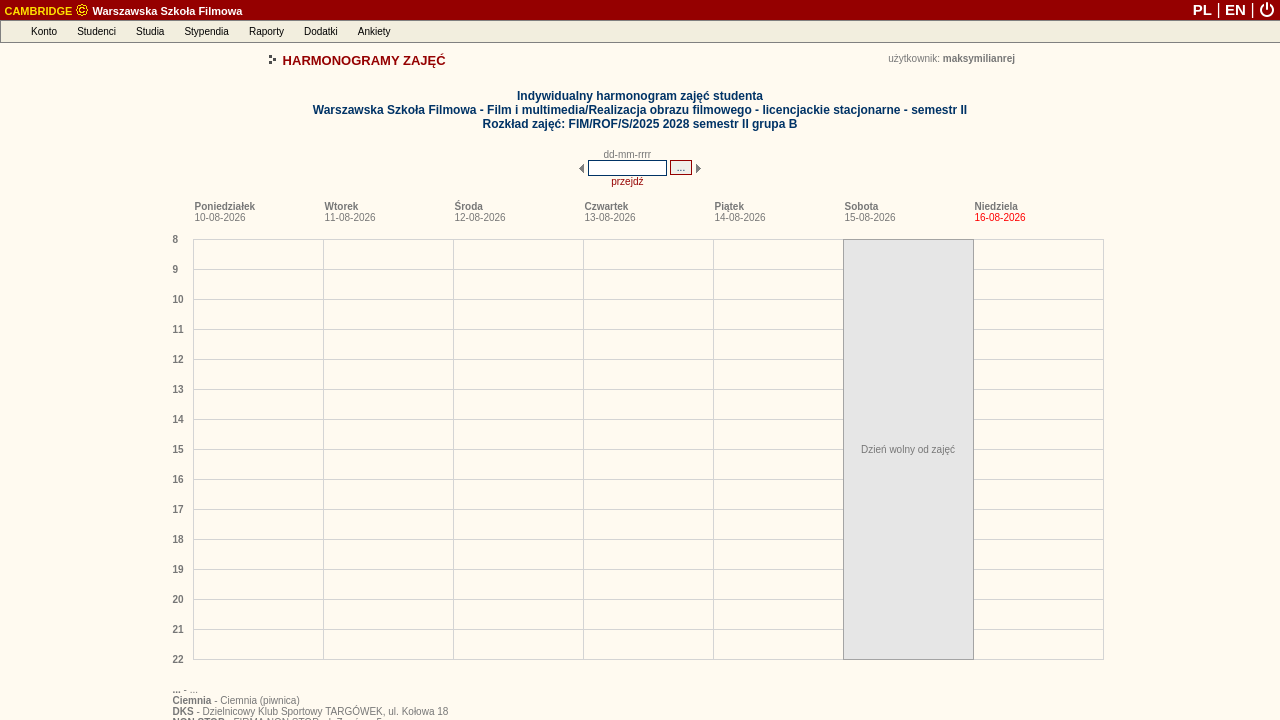
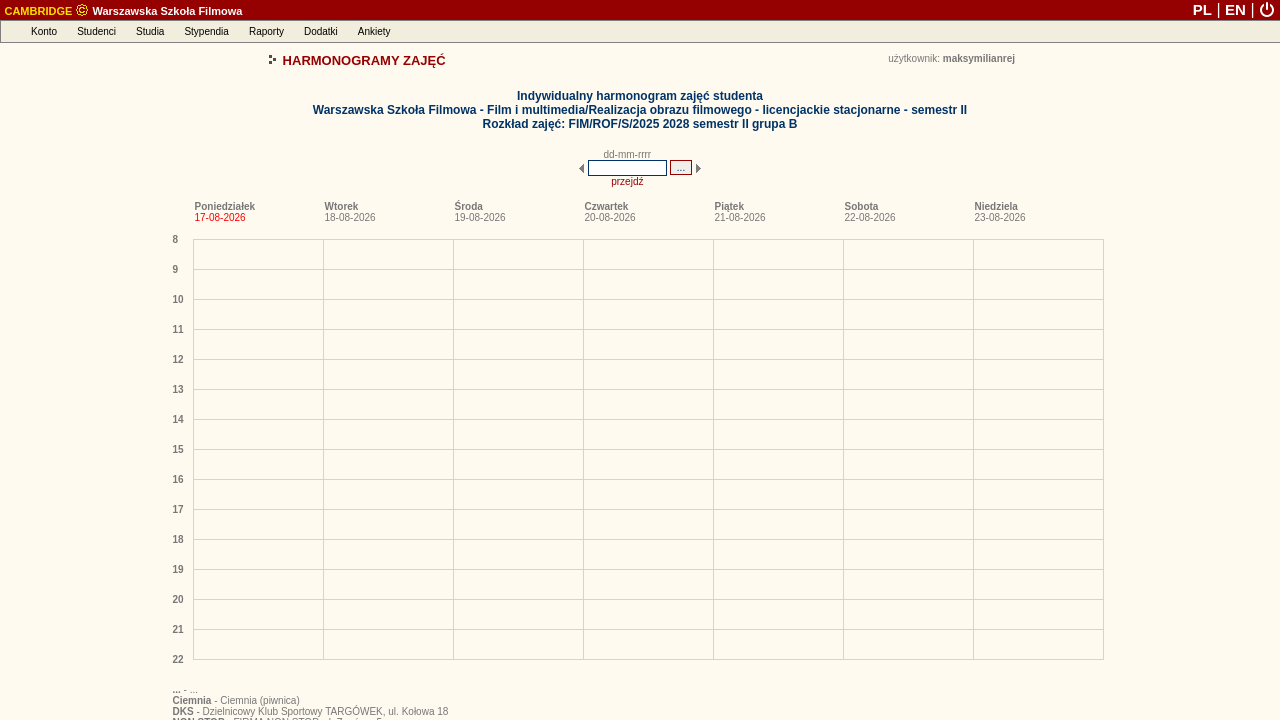
deploy: 20767e2667a06bb4135101eddfaa63d366c8849d

Changed region(s): [[0.6562, 0.3056, 0.7812, 0.9167], [0.75, 0.275, 0.7812, 0.3056], [0.1562, 0.275, 0.1875, 0.3056]]

diff --git a/debug_harmonogram_page.html b/debug_harmonogram_page.html
@@ -163,8 +163,8 @@
 
 
 
-<link rel="stylesheet" type="text/css" href="/palio/html.run?_Instance=cambridge&amp;_PageID=4&amp;_SessionID=1731042&amp;_SessionKey=1692500415&amp;ZoomView=&amp;DisplayMode=&amp;_CheckSum=-963517913">
-<script language="javascript" type="text/javascript" src="/palio/html.run?_Instance=cambridge&amp;_PageID=5&amp;_SessionID=1731042&amp;_SessionKey=1692500415&amp;_CheckSum=992540417"></script>
+<link rel="stylesheet" type="text/css" href="/palio/html.run?_Instance=cambridge&amp;_PageID=4&amp;_SessionID=1731127&amp;_SessionKey=996439924&amp;ZoomView=&amp;DisplayMode=&amp;_CheckSum=-1227430187">
+<script language="javascript" type="text/javascript" src="/palio/html.run?_Instance=cambridge&amp;_PageID=5&amp;_SessionID=1731127&amp;_SessionKey=996439924&amp;_CheckSum=1654931957"></script>
 
 
 
@@ -354,9 +354,9 @@ CambridgeMenuBar = new jsDOMenuBar("absolute", true)
 
 AccountMenu=new jsDOMenu(200, "", "absolute", false);
 
-AccountMenu.addMenuItem(new menuItem("Zmiana hasła", "", "/palio/html.run?_Instance=cambridge&amp;_PageID=11&amp;_SessionID=1731042&amp;_SessionKey=1692500415&amp;_CheckSum=-1273393038"));
+AccountMenu.addMenuItem(new menuItem("Zmiana hasła", "", "/palio/html.run?_Instance=cambridge&amp;_PageID=11&amp;_SessionID=1731127&amp;_SessionKey=996439924&amp;_CheckSum=57816676"));
 
-  AccountMenu.addMenuItem(new menuItem("Komunikator", "", "/palio/html.run?_Instance=cambridge&amp;_PageID=180&amp;_SessionID=1731042&amp;_SessionKey=1692500415&amp;_CheckSum=-2078352819"));
+  AccountMenu.addMenuItem(new menuItem("Komunikator", "", "/palio/html.run?_Instance=cambridge&amp;_PageID=180&amp;_SessionID=1731127&amp;_SessionKey=996439924&amp;_CheckSum=1694418217"));
 
 
 
@@ -369,7 +369,7 @@ AccountMenu.addMenuItem(new menuItem("Yammer", "", "https://www.yammer.com/onlin
 
 AccountMenu.addMenuItem(new menuItem("-"));
 
-AccountMenu.addMenuItem(new menuItem("Wylogowanie", "", "https://student.szkolafilmowa.pl/palio/html.run?_Instance=cambridge&amp;_PageID=10012&amp;_Action=Logout&amp;_SessionID=1731042&amp;_SessionKey=1692500415"));
+AccountMenu.addMenuItem(new menuItem("Wylogowanie", "", "https://student.szkolafilmowa.pl/palio/html.run?_Instance=cambridge&amp;_PageID=10012&amp;_Action=Logout&amp;_SessionID=1731127&amp;_SessionKey=996439924"));
 
 CambridgeMenuBar.addMenuBarItem(new menuBarItem("Konto", AccountMenu));
 
@@ -382,12 +382,12 @@ StudentsMenu=new jsDOMenu(320, "", "absolute", false);
 
 
 
-StudentsMenu.addMenuItem(new menuItem("Moje dane", "", "/palio/html.run?_Instance=cambridge&amp;_PageID=185&amp;_SessionID=1731042&amp;_SessionKey=1692500415&amp;_CheckSum=1153453544"));
+StudentsMenu.addMenuItem(new menuItem("Moje dane", "", "/palio/html.run?_Instance=cambridge&amp;_PageID=185&amp;_SessionID=1731127&amp;_SessionKey=996439924&amp;_CheckSum=551744046"));
 
 
 
 
-StudentsMenu.addMenuItem(new menuItem("Moje indeksy", "", "/palio/html.run?_Instance=cambridge&amp;_PageID=186&amp;_SessionID=1731042&amp;_SessionKey=1692500415&amp;_CheckSum=-777165561"));
+StudentsMenu.addMenuItem(new menuItem("Moje indeksy", "", "/palio/html.run?_Instance=cambridge&amp;_PageID=186&amp;_SessionID=1731127&amp;_SessionKey=996439924&amp;_CheckSum=1182202671"));
 
 
 
@@ -426,7 +426,7 @@ StudiesMenu=new jsDOMenu(250, "", "absolute", false);
 
 
 
-StudiesMenu.addMenuItem(new menuItem("Moje plany studiów", "", "/palio/html.run?_Instance=cambridge&amp;_PageID=258&amp;_SessionID=1731042&amp;_SessionKey=1692500415&amp;_CheckSum=-1083574175"));
+StudiesMenu.addMenuItem(new menuItem("Moje plany studiów", "", "/palio/html.run?_Instance=cambridge&amp;_PageID=258&amp;_SessionID=1731127&amp;_SessionKey=996439924&amp;_CheckSum=-74607467"));
 
 
 
@@ -434,13 +434,13 @@ StudiesMenu.addMenuItem(new menuItem("Moje plany studiów", "", "/palio/html.run
 
 
 
-StudiesMenu.addMenuItem(new menuItem("Harmonogramy zajęć", "", "/palio/html.run?_Instance=cambridge&amp;_PageID=95&amp;_SessionID=1731042&amp;_SessionKey=1692500415&amp;_CheckSum=1836864246"));
+StudiesMenu.addMenuItem(new menuItem("Harmonogramy zajęć", "", "/palio/html.run?_Instance=cambridge&amp;_PageID=95&amp;_SessionID=1731127&amp;_SessionKey=996439924&amp;_CheckSum=19600224"));
 
-StudiesMenu.addMenuItem(new menuItem("Harmonogramy moich zajęć", "", "/palio/html.run?_Instance=cambridge&amp;_PageID=191&amp;_SessionID=1731042&amp;_SessionKey=1692500415&amp;_CheckSum=566345261"));
+StudiesMenu.addMenuItem(new menuItem("Harmonogramy moich zajęć", "", "/palio/html.run?_Instance=cambridge&amp;_PageID=191&amp;_SessionID=1731127&amp;_SessionKey=996439924&amp;_CheckSum=394257737"));
 
-StudiesMenu.addMenuItem(new menuItem("Harmonogramy innych zajęć", "", "/palio/html.run?_Instance=cambridge&amp;_PageID=248&amp;_SessionID=1731042&amp;_SessionKey=1692500415&amp;_CheckSum=-1363924064"));
+StudiesMenu.addMenuItem(new menuItem("Harmonogramy innych zajęć", "", "/palio/html.run?_Instance=cambridge&amp;_PageID=248&amp;_SessionID=1731127&amp;_SessionKey=996439924&amp;_CheckSum=1856011638"));
 
-StudiesMenu.addMenuItem(new menuItem("Harmonogramy zajętości sal", "", "/palio/html.run?_Instance=cambridge&amp;_PageID=269&amp;_SessionID=1731042&amp;_SessionKey=1692500415&amp;_CheckSum=1561123905"));
+StudiesMenu.addMenuItem(new menuItem("Harmonogramy zajętości sal", "", "/palio/html.run?_Instance=cambridge&amp;_PageID=269&amp;_SessionID=1731127&amp;_SessionKey=996439924&amp;_CheckSum=-1374767947"));
 
 
 
@@ -470,9 +470,9 @@ CambridgeMenuBar.addMenuBarItem(new menuBarItem("Studia", StudiesMenu));
 ScholarshipsMenu=new jsDOMenu(230, "", "absolute", false);
 
 
-ScholarshipsMenu.addMenuItem(new menuItem("Moje stypendia", "", "/palio/html.run?_Instance=cambridge&amp;_PageID=187&amp;_SessionID=1731042&amp;_SessionKey=1692500415&amp;_CheckSum=1587182630"));
+ScholarshipsMenu.addMenuItem(new menuItem("Moje stypendia", "", "/palio/html.run?_Instance=cambridge&amp;_PageID=187&amp;_SessionID=1731127&amp;_SessionKey=996439924&amp;_CheckSum=1812661296"));
 
-ScholarshipsMenu.addMenuItem(new menuItem("Mój numer rachunku", "", "/palio/html.run?_Instance=cambridge&amp;_PageID=380&amp;_SessionID=1731042&amp;_SessionKey=1692500415&amp;_CheckSum=-1876528885"));
+ScholarshipsMenu.addMenuItem(new menuItem("Mój numer rachunku", "", "/palio/html.run?_Instance=cambridge&amp;_PageID=380&amp;_SessionID=1731127&amp;_SessionKey=996439924&amp;_CheckSum=-2039849301"));
 
 
 
@@ -482,9 +482,9 @@ ScholarshipsMenu.addMenuItem(new menuItem("Mój numer rachunku", "", "/palio/htm
 ScholarshipsMenu.addMenuItem(new menuItem("-"));
 
 
-ScholarshipsMenu.addMenuItem(new menuItem("Fundusze stypendialne", "", "/palio/html.run?_Instance=cambridge&amp;_PageID=54&amp;_SessionID=1731042&amp;_SessionKey=1692500415&amp;_CheckSum=-1648883501"));
+ScholarshipsMenu.addMenuItem(new menuItem("Fundusze stypendialne", "", "/palio/html.run?_Instance=cambridge&amp;_PageID=54&amp;_SessionID=1731127&amp;_SessionKey=996439924&amp;_CheckSum=-1478316573"));
 
-ScholarshipsMenu.addMenuItem(new menuItem("Rodzaje stypendiów", "", "/palio/html.run?_Instance=cambridge&amp;_PageID=55&amp;_SessionID=1731042&amp;_SessionKey=1692500415&amp;_CheckSum=715464690"));
+ScholarshipsMenu.addMenuItem(new menuItem("Rodzaje stypendiów", "", "/palio/html.run?_Instance=cambridge&amp;_PageID=55&amp;_SessionID=1731127&amp;_SessionKey=996439924&amp;_CheckSum=-847857948"));
 
 
 
@@ -495,7 +495,7 @@ CambridgeMenuBar.addMenuBarItem(new menuBarItem("Stypendia", ScholarshipsMenu));
 ReportsMenu=new jsDOMenu(200, "", "absolute", false);
 
 
-ReportsMenu.addMenuItem(new menuItem("Generowanie raportów", "", "/palio/html.run?_Instance=cambridge&amp;_PageID=68&amp;_SessionID=1731042&amp;_SessionKey=1692500415&amp;_CheckSum=-501075440"));
+ReportsMenu.addMenuItem(new menuItem("Generowanie raportów", "", "/palio/html.run?_Instance=cambridge&amp;_PageID=68&amp;_SessionID=1731127&amp;_SessionKey=996439924&amp;_CheckSum=-887101178"));
 
 
 
@@ -505,7 +505,7 @@ CambridgeMenuBar.addMenuBarItem(new menuBarItem("Raporty", ReportsMenu));
 
 AdditionalsMenu=new jsDOMenu(200, "", "absolute", false);
 
-AdditionalsMenu.addMenuItem(new menuItem("Forum internetowe", "", "/palio/html.run?_Instance=cambridge&amp;_PageID=8001&amp;_SessionID=1731042&amp;_SessionKey=1692500415&amp;_CheckSum=-1244638663"));
+AdditionalsMenu.addMenuItem(new menuItem("Forum internetowe", "", "/palio/html.run?_Instance=cambridge&amp;_PageID=8001&amp;_SessionID=1731127&amp;_SessionKey=996439924&amp;_CheckSum=612933565"));
 
 
 
@@ -539,7 +539,7 @@ PollsMenu=new jsDOMenu(225, "", "absolute", false);
 
 
 
-PollsMenu.addMenuItem(new menuItem("Wypełnianie ankiet", "", "/palio/html.run?_Instance=cambridge&amp;_PageID=227&amp;_SessionID=1731042&amp;_SessionKey=1692500415&amp;_CheckSum=5995263"));
+PollsMenu.addMenuItem(new menuItem("Wypełnianie ankiet", "", "/palio/html.run?_Instance=cambridge&amp;_PageID=227&amp;_SessionID=1731127&amp;_SessionKey=996439924&amp;_CheckSum=791823927"));
 
 
 CambridgeMenuBar.addMenuBarItem(new menuBarItem("Ankiety", PollsMenu));
@@ -576,7 +576,7 @@ CambridgeMenuBar.moveTo(0,20);
 <table width="100%" border="0" cellspacing="0" cellpadding="0" align="center">
 <tbody><tr class="top_belt">
 
-<td align="left" height="20"><b>&nbsp;<a class="belt" href="/palio/html.run?_Instance=cambridge&amp;_PageID=6&amp;_SessionID=1731042&amp;_SessionKey=1692500415&amp;_CheckSum=-938078688"><span class="belt_application">CAMBRIDGE</span> <img src="/palio/html.media?_Instance=cambridge&amp;_Option=Palio&amp;_ID=51&amp;_CheckSum=684598873" width="14" height="14" border="0" style="position:relative;top:-2px;vertical-align:bottom"> Warszawska Szkoła Filmowa</a></b></td>
+<td align="left" height="20"><b>&nbsp;<a class="belt" href="/palio/html.run?_Instance=cambridge&amp;_PageID=6&amp;_SessionID=1731127&amp;_SessionKey=996439924&amp;_CheckSum=-2009576714"><span class="belt_application">CAMBRIDGE</span> <img src="/palio/html.media?_Instance=cambridge&amp;_Option=Palio&amp;_ID=51&amp;_CheckSum=684598873" width="14" height="14" border="0" style="position:relative;top:-2px;vertical-align:bottom"> Warszawska Szkoła Filmowa</a></b></td>
 <td align="right">
 
 
@@ -587,13 +587,13 @@ CambridgeMenuBar.moveTo(0,20);
 
 
 
-<a href="/palio/html.run?_Instance=cambridge&amp;_PageID=6&amp;_SessionID=1731042&amp;_SessionKey=1692500415&amp;SetLanguage=pl&amp;_CheckSum=-1667283974" class="belt" style="font-size:15px;line-height:18px;text-decoration:none" title="polski"><b>PL</b></a>
+<a href="/palio/html.run?_Instance=cambridge&amp;_PageID=6&amp;_SessionID=1731127&amp;_SessionKey=996439924&amp;SetLanguage=pl&amp;_CheckSum=-456869020" class="belt" style="font-size:15px;line-height:18px;text-decoration:none" title="polski"><b>PL</b></a>
 <span class="belt" style="font-size:16px">|</span>
-<a href="/palio/html.run?_Instance=cambridge&amp;_PageID=6&amp;_SessionID=1731042&amp;_SessionKey=1692500415&amp;SetLanguage=en&amp;_CheckSum=225499309" class="belt" style="font-size:15px;line-height:18px;text-decoration:none" title="english"><b>EN</b></a>
+<a href="/palio/html.run?_Instance=cambridge&amp;_PageID=6&amp;_SessionID=1731127&amp;_SessionKey=996439924&amp;SetLanguage=en&amp;_CheckSum=1435914263" class="belt" style="font-size:15px;line-height:18px;text-decoration:none" title="english"><b>EN</b></a>
 <span class="belt" style="font-size:16px">|</span>
 
 
-<img src="/palio/html.media?_Instance=cambridge&amp;_Option=Palio&amp;_ID=94&amp;_CheckSum=-1316787974" style="cursor:pointer;vertical-align:bottom;margin-bottom:2px;margin-right:5px" alt="Wyloguj" title="Wyloguj" onclick="if(confirm('Czy na pewno chcesz się wylogować?'))window.location='https://student.szkolafilmowa.pl/palio/html.run?_Instance=cambridge&amp;_PageID=10012&amp;_Action=Logout&amp;_SessionID=1731042&amp;_SessionKey=1692500415'">
+<img src="/palio/html.media?_Instance=cambridge&amp;_Option=Palio&amp;_ID=94&amp;_CheckSum=-1316787974" style="cursor:pointer;vertical-align:bottom;margin-bottom:2px;margin-right:5px" alt="Wyloguj" title="Wyloguj" onclick="if(confirm('Czy na pewno chcesz się wylogować?'))window.location='https://student.szkolafilmowa.pl/palio/html.run?_Instance=cambridge&amp;_PageID=10012&amp;_Action=Logout&amp;_SessionID=1731127&amp;_SessionKey=996439924'">
 </td>
 
 </tr>
@@ -2351,16 +2351,16 @@ document.schedule_scroll_form.submit();
 }
 function goForward()
 {
-document.schedule_scroll_form._firstDayOfWeek.value = '02-11-2026';
+document.schedule_scroll_form._firstDayOfWeek.value = '09-11-2026';
 document.schedule_scroll_form.submit();
 }
 function goBackward()
 {
-document.schedule_scroll_form._firstDayOfWeek.value = '24-10-2026';
+document.schedule_scroll_form._firstDayOfWeek.value = '31-10-2026';
 document.schedule_scroll_form.submit();
 }
 </script>
-<form method="post" name="schedule_scroll_form" id="schedule_scroll_form" action="/palio/html.run?_Instance=cambridge&amp;_PageID=191&amp;_SessionID=1731042&amp;_SessionKey=1692500415&amp;_RowID=6932&amp;_RowIDType=I&amp;_CheckSum=-69733284" onsubmit="return checkFrm_schedule_scroll_form(this)">
+<form method="post" name="schedule_scroll_form" id="schedule_scroll_form" action="/palio/html.run?_Instance=cambridge&amp;_PageID=191&amp;_SessionID=1731127&amp;_SessionKey=996439924&amp;_RowID=6932&amp;_RowIDType=I&amp;_CheckSum=-1137434432" onsubmit="return checkFrm_schedule_scroll_form(this)">
 <div style="display:none;"><input type="hidden" name="_formSubmitted" value="yes"></div>
 <input type="hidden" name="_firstDayOfWeek">
 <table cellspacing="0" cellpadding="0" border="0" align="center">
@@ -3218,22 +3218,6 @@ return true;
 
 
 
-
-
-
-
-
-
-
-
-
-
-
-
-
-
-
-
 <br>
 
 
@@ -3252,60 +3236,6 @@ return true;
 
 
 
- 
- 
- 
-
-
-
-
-
-
-
-
-
-
-
-
-
-
-
-
-
-
-
-
-
-
-
-
-
-
-
-
-
-
-
-
-
-
-
-
-
-
-
-
-
-
-
-
-
-
-
-
-
-
-
 
 
 
@@ -3385,7 +3315,6 @@ return true;
 
 
 
-  
 
 
 
@@ -3859,7 +3788,7 @@ tipDivElement.style.visibility="hidden"
 <tbody><tr><td class="font">
 <b class="font">Poniedziałek</b><br>
 
-<span class="font">26-10-2026</span>
+<span class="font">02-11-2026</span>
 </td></tr>
 </tbody></table>
 </div>
@@ -3874,7 +3803,7 @@ tipDivElement.style.visibility="hidden"
 <tbody><tr><td class="font">
 <b class="font">Wtorek</b><br>
 
-<span class="font">27-10-2026</span>
+<span class="font">03-11-2026</span>
 </td></tr>
 </tbody></table>
 </div>
@@ -3889,7 +3818,7 @@ tipDivElement.style.visibility="hidden"
 <tbody><tr><td class="font">
 <b class="font">Środa</b><br>
 
-<span class="font">28-10-2026</span>
+<span class="font">04-11-2026</span>
 </td></tr>
 </tbody></table>
 </div>
@@ -3904,7 +3833,7 @@ tipDivElement.style.visibility="hidden"
 <tbody><tr><td class="font">
 <b class="font">Czwartek</b><br>
 
-<span class="font">29-10-2026</span>
+<span class="font">05-11-2026</span>
 </td></tr>
 </tbody></table>
 </div>
@@ -3919,7 +3848,7 @@ tipDivElement.style.visibility="hidden"
 <tbody><tr><td class="font">
 <b class="font">Piątek</b><br>
 
-<span class="font">30-10-2026</span>
+<span class="font">06-11-2026</span>
 </td></tr>
 </tbody></table>
 </div>
@@ -3934,7 +3863,7 @@ tipDivElement.style.visibility="hidden"
 <tbody><tr><td class="font">
 <b class="font">Sobota</b><br>
 
-<span class="font">31-10-2026</span>
+<span class="font">07-11-2026</span>
 </td></tr>
 </tbody></table>
 </div>
@@ -3949,7 +3878,7 @@ tipDivElement.style.visibility="hidden"
 <tbody><tr><td class="font">
 <b class="font">Niedziela</b><br>
 
-<span class="font">01-11-2026</span>
+<span class="font">08-11-2026</span>
 </td></tr>
 </tbody></table>
 </div>
@@ -3975,35 +3904,7 @@ tipDivElement.style.visibility="hidden"
 <div style="
 position:absolute;
 top:0;
-left:800;
-width:129;
-height:419.00;
-layer-background-color:#E6E6E6;
-background-color:#E6E6E6;
-border:1px solid #A4A4A4;
-z-index:0;">
-<table cellspacing="0" cellpadding="0" align="center" width="129">
-<tbody><tr><td width="129" align="center" class="font" valign="middle" height="419.00">Dzień wolny od zajęć</td></tr>
-</tbody></table>
-</div>
-
-
-
-
-
-
-
-
-
-
-
-
-
-
-<div style="
-position:absolute;
-top:0;
-left:670;
+left:20;
 width:129;
 height:419.00;
 layer-background-color:#E6E6E6;
@@ -4040,8 +3941,8 @@ z-index:0;">
 <td align="right">
 <table cellspacing="0" cellpadding="2" border="0">
 <tbody><tr>
-<td valign="middle"><a class="link" href="/palio/html.run?_Instance=cambridge&amp;_PageID=96&amp;_SessionID=1731042&amp;_SessionKey=1692500415&amp;_RowID=6932&amp;_RowIDType=I&amp;_firstDayOfWeek=26-10-2026&amp;_CheckSum=1434298391" target="_blank">drukuj</a></td>
-<td valign="middle"><a class="link" href="/palio/html.run?_Instance=cambridge&amp;_PageID=96&amp;_SessionID=1731042&amp;_SessionKey=1692500415&amp;_RowID=6932&amp;_RowIDType=I&amp;_firstDayOfWeek=26-10-2026&amp;_CheckSum=1434298391" target="_blank"><img src="/palio/html.media?_Instance=cambridge&amp;_Option=Palio&amp;_ID=26&amp;_CheckSum=1936112049" awidth="16" height="14" alt="drukuj" title="drukuj" border="0"></a></td>
+<td valign="middle"><a class="link" href="/palio/html.run?_Instance=cambridge&amp;_PageID=96&amp;_SessionID=1731127&amp;_SessionKey=996439924&amp;_RowID=6932&amp;_RowIDType=I&amp;_firstDayOfWeek=02-11-2026&amp;_CheckSum=1459801446" target="_blank">drukuj</a></td>
+<td valign="middle"><a class="link" href="/palio/html.run?_Instance=cambridge&amp;_PageID=96&amp;_SessionID=1731127&amp;_SessionKey=996439924&amp;_RowID=6932&amp;_RowIDType=I&amp;_firstDayOfWeek=02-11-2026&amp;_CheckSum=1459801446" target="_blank"><img src="/palio/html.media?_Instance=cambridge&amp;_Option=Palio&amp;_ID=26&amp;_CheckSum=1936112049" awidth="16" height="14" alt="drukuj" title="drukuj" border="0"></a></td>
 </tr>
 </tbody></table>
 </td>
@@ -4073,7 +3974,7 @@ z-index:0;">
 
 
 
-<input type="button" name="jump_action" value="Powrót do listy harmonogramów zajęć" class="button" onclick="window.location='/palio/html.run?_Instance=cambridge&amp;_PageID=191&amp;_SessionID=1731042&amp;_SessionKey=1692500415&amp;_CheckSum=566345261'">
+<input type="button" name="jump_action" value="Powrót do listy harmonogramów zajęć" class="button" onclick="window.location='/palio/html.run?_Instance=cambridge&amp;_PageID=191&amp;_SessionID=1731127&amp;_SessionKey=996439924&amp;_CheckSum=394257737'">
 
 
 
@@ -4098,7 +3999,7 @@ z-index:0;">
 grayscaleImagesIE10Plus();
 </script>
 
-<p align="right" class="font"><i style="color:#aaaaaa">Czas generowania strony 108 ms</i></p>
+<p align="right" class="font"><i style="color:#aaaaaa">Czas generowania strony 110 ms</i></p>
 
 
 </body></html>
